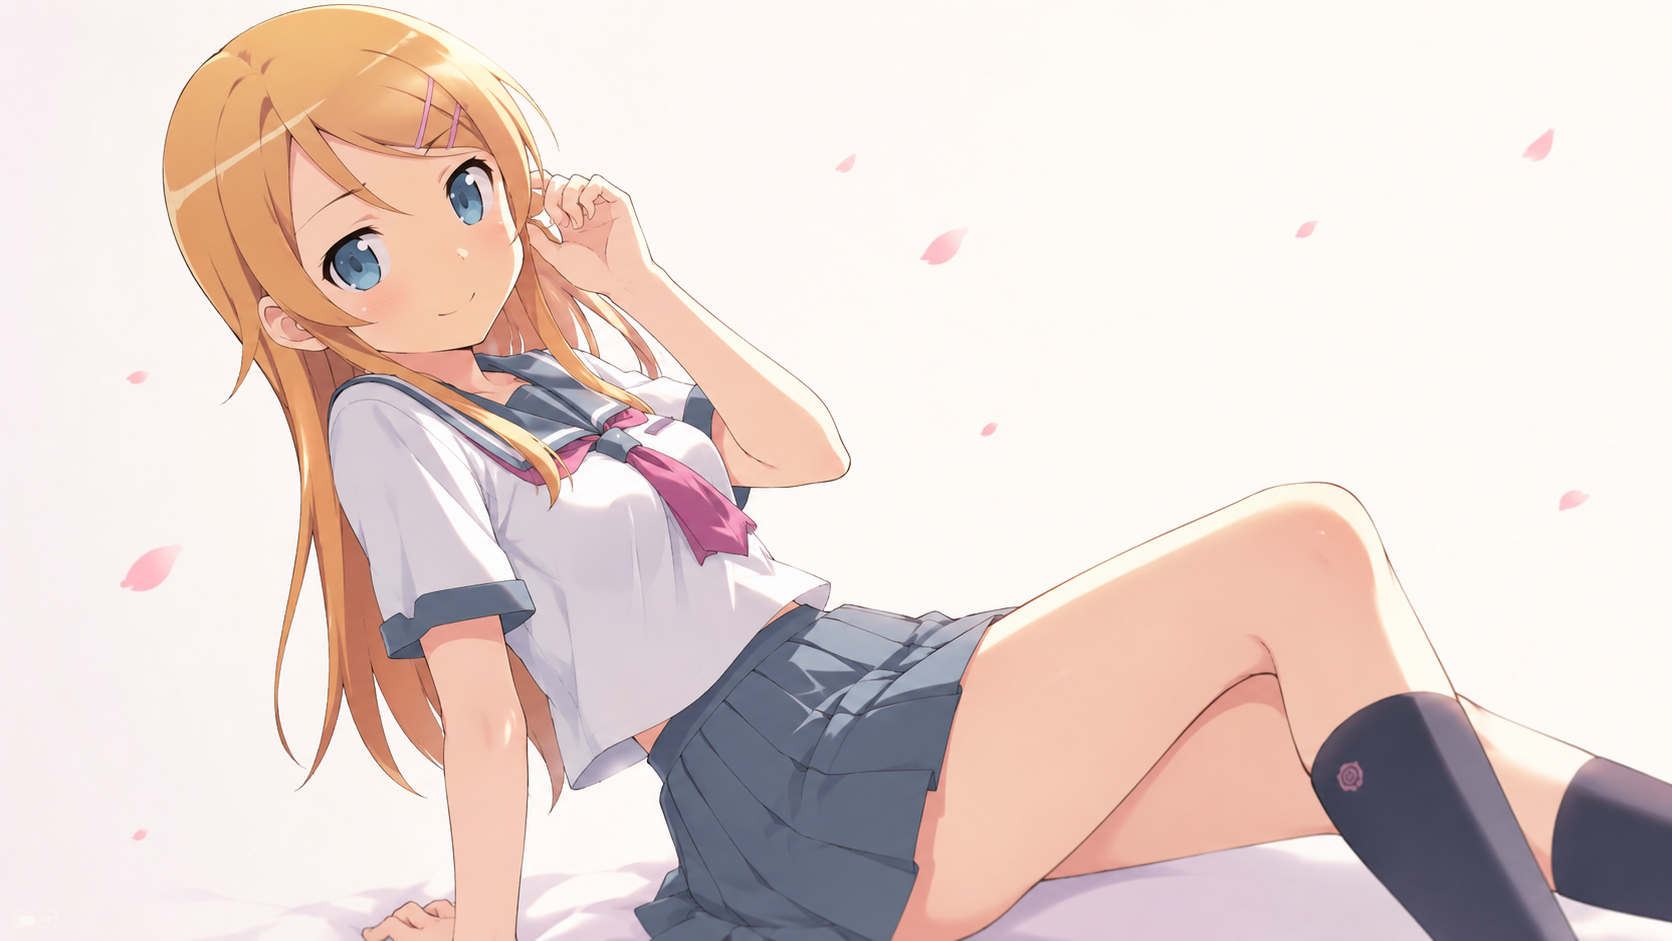
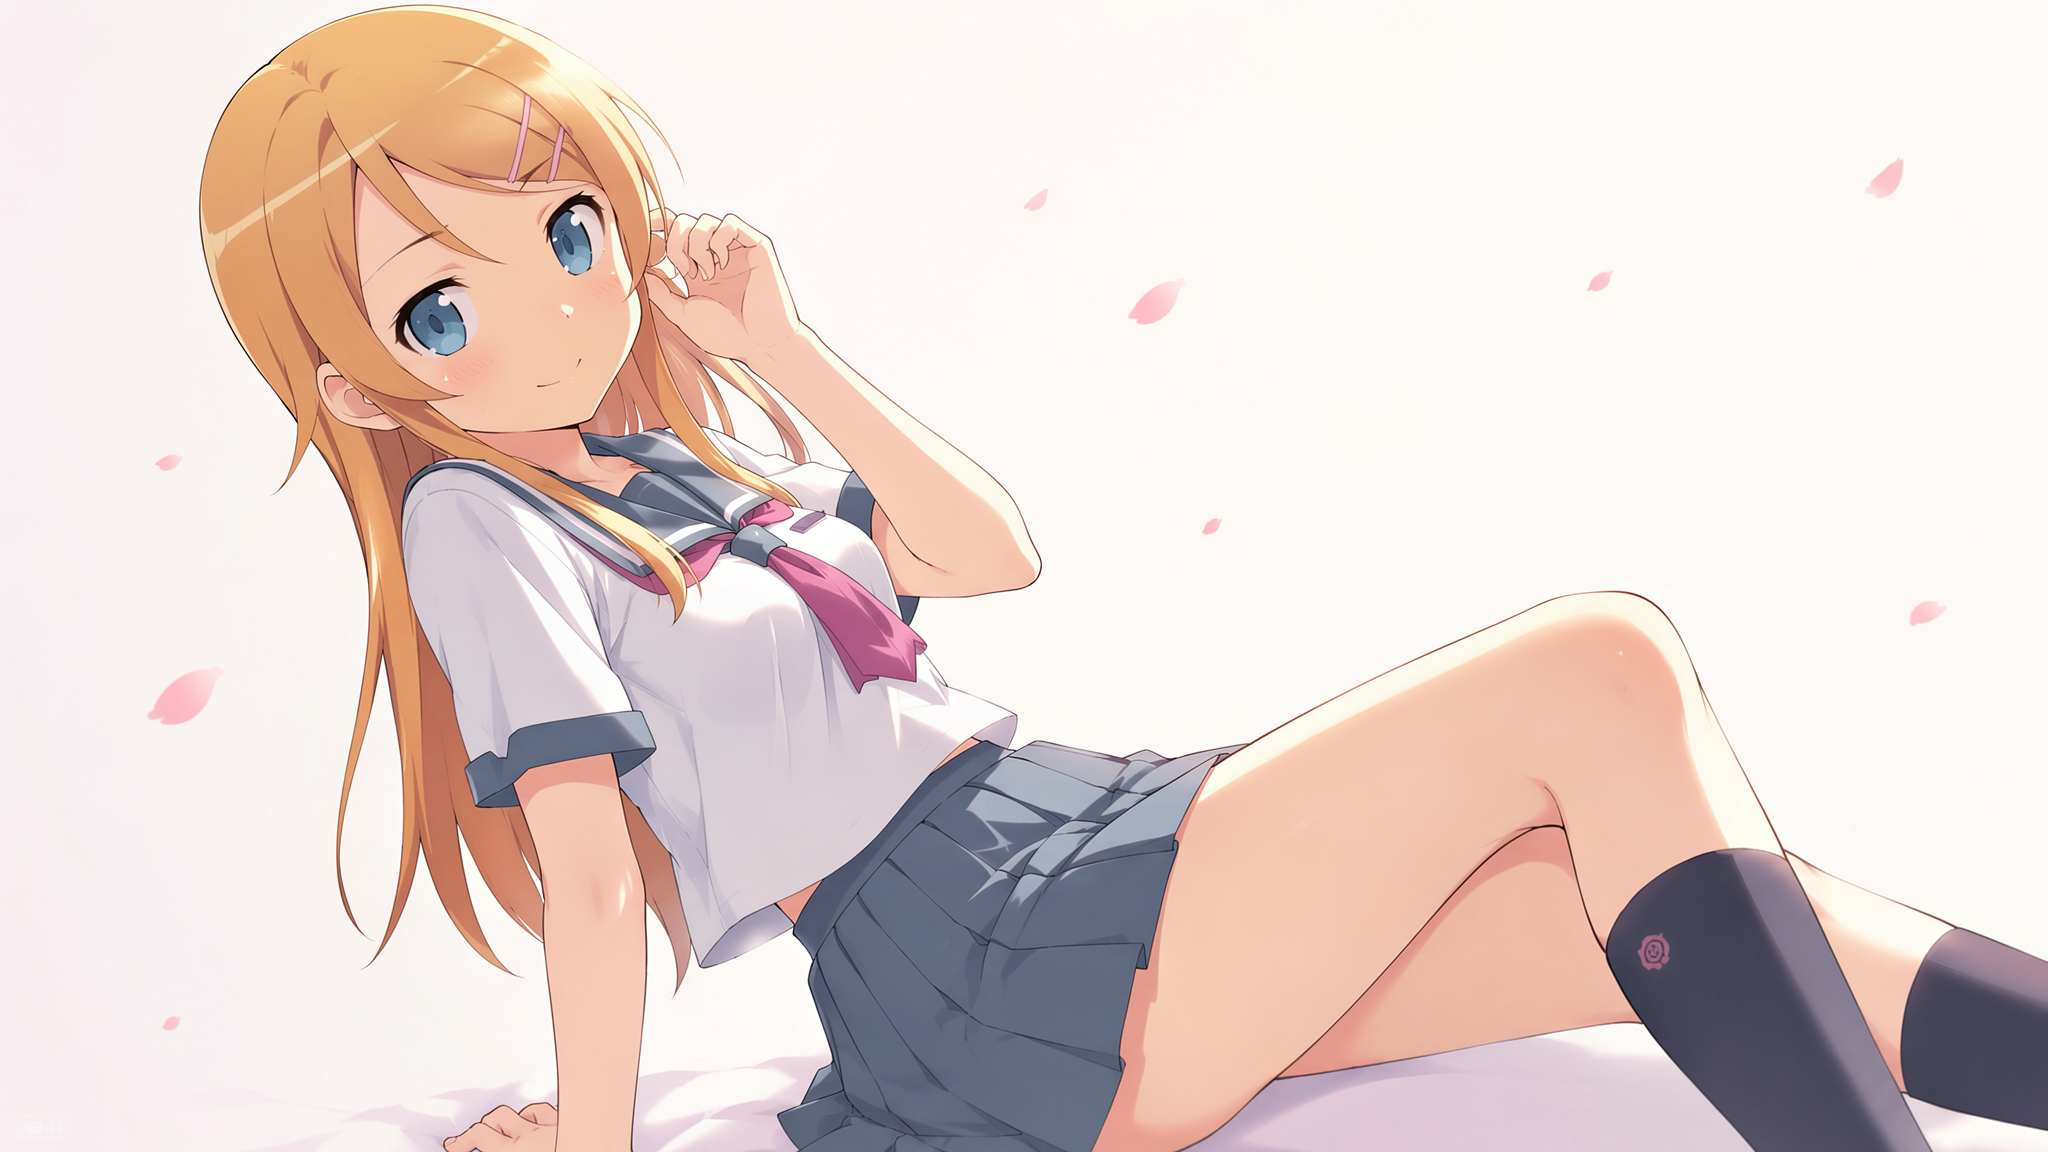
feat: 新增两款桌面壁纸和一款移动壁纸，并更新壁纸配置
新增DesktopWallpaper/9.png和MobileWallpaper/3.png两张壁纸，更新配置文件将新壁纸加入可选列表，同时更新DesktopWallpaper/7.png资源文件

diff --git a/src/config/backgroundWallpaper.ts b/src/config/backgroundWallpaper.ts
@@ -43,6 +43,7 @@ export const backgroundWallpaper: BackgroundWallpaperConfig = {
 			"assets/images/DesktopWallpaper/three.webp",
 			"assets/images/DesktopWallpaper/7.png",
 			"assets/images/DesktopWallpaper/8.png",
+			"assets/images/DesktopWallpaper/9.png",
 			// "https://t.alcy.cc/ycy",
 		],
 		// 移动背景图片（支持单张或多张随机）
@@ -50,6 +51,7 @@ export const backgroundWallpaper: BackgroundWallpaperConfig = {
 		mobile: [
 			"assets/images/MobileWallpaper/1.png",
 			"assets/images/MobileWallpaper/2.png",
+			"assets/images/MobileWallpaper/3.png",
 			"assets/images/DesktopWallpaper/cover.avif",
 		],
 		// 背景视频播放地址
